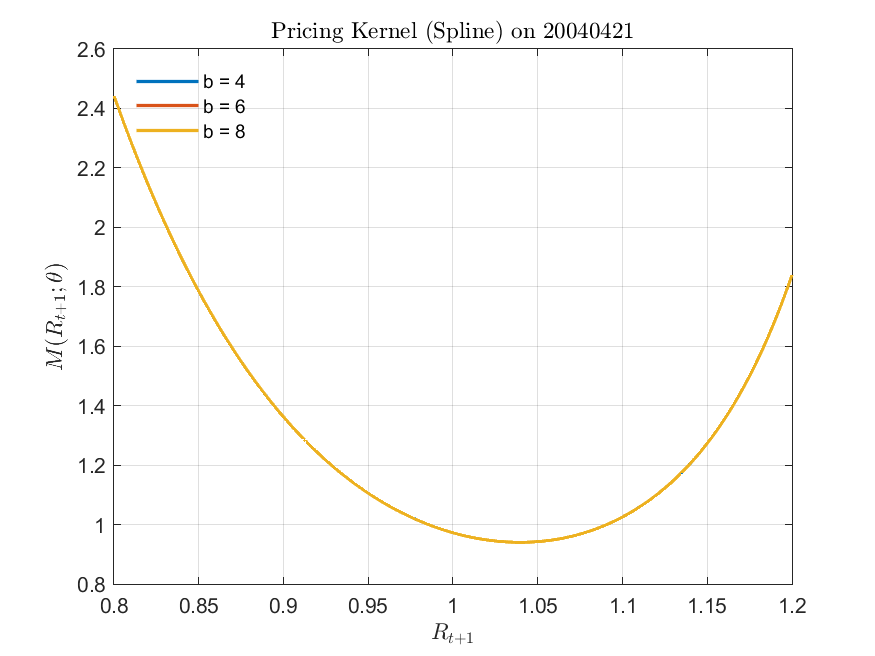
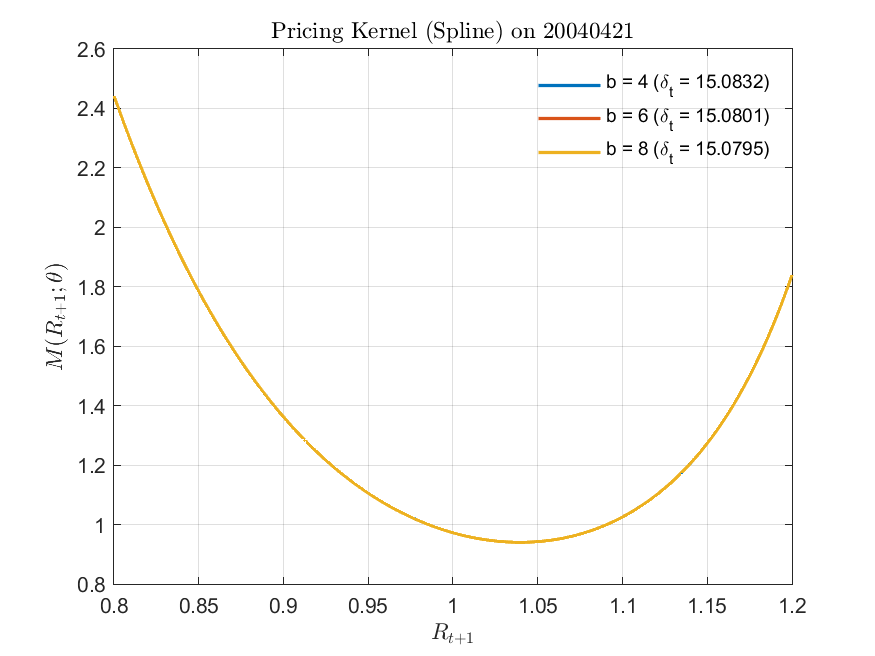
feat: add delta_t time-series computation and plotting

Changed region(s): [[0.6171, 0.0915, 0.8949, 0.1829], [0.1543, 0.122, 0.2777, 0.2134], [0.6171, 0.2134, 0.8949, 0.2439]]

diff --git a/03  Estimation - Cubic B-Spline/Main__Plot_pricing_kernel.m b/03  Estimation - Cubic B-Spline/Main__Plot_pricing_kernel.m
@@ -58,7 +58,7 @@ clear b_value var_name k theta_hat mat_files
 
 %% Function: compute_M_spline_on_date
 
-function M_plot = compute_M_spline_on_date(theta, b, R_axis_full, f_star_full, R_plot, Rf_t)
+function [M_plot, delta_t] = compute_M_spline_on_date(theta, b, R_axis_full, f_star_full, R_plot, Rf_t)
 
     degree = 3;                                                            % cubic B-spline
 
@@ -118,7 +118,8 @@ f_star_pl = f_star_full(idx_plot);
 Path_Code_03 = fullfile(Path_MainFolder, 'Code', '03  Estimation - Cubic B-Spline');
 addpath(Path_Code_03);
 
-M_stack = zeros(numel(R_plot), numel(b_list));
+M_stack     = zeros(numel(R_plot), numel(b_list));
+delta_stack = zeros(1            , numel(b_list));
 
 for j = 1:numel(b_list)
 
@@ -128,18 +129,20 @@ for j = 1:numel(b_list)
     theta_hat = eval(theta_varname);
     theta_hat = theta_hat(:);
 
-    M_tmp = compute_M_spline_on_date(theta_hat, b, R_axis_full, f_star_full, R_plot, Rf_t);
-    M_stack(:, j) = M_tmp(:);
+    [M_tmp, delta_t] = compute_M_spline_on_date(theta_hat, b, R_axis_full, f_star_full, R_plot, Rf_t);
+    M_stack(:, j)     = M_tmp(:);
+    delta_stack(1, j) = delta_t;
 
 end
 
 
-%% Plot
+%% Plot pricing kernel
 
 figure; 
 plot(R_plot, M_stack, 'LineWidth', 1.6); grid on;
-legend(arrayfun(@(x) sprintf('b = %d', x), b_list, 'UniformOutput', false), ...
-       'Location', 'northwest', 'Box', 'off');
+legend(arrayfun(@(x, d) sprintf('b = %d (\\delta_t = %.4f)', x, d), ...
+       b_list, delta_stack, 'UniformOutput', false), ...
+       'Location', 'northeast', 'Box', 'off');
 
 xlabel('$R_{t+1}$', 'Interpreter', 'latex');
 ylabel('$M(R_{t+1}; \theta)$', 'Interpreter', 'latex');
@@ -149,3 +152,90 @@ title(sprintf('Pricing Kernel (Spline) on %s', date_str), 'Interpreter', 'latex'
 out_png = sprintf('Pricing_Kernels_Spline_%s.png', date_str);
 saveas(gcf, fullfile(Path_Output, out_png));
 disp(['Saved figure: ', fullfile(Path_Output, out_png)]);
+
+
+%% Function: compute_delta_spline_on_date & build_delta_series
+
+% 1: compute_delta_spline_on_date
+function delta_t = compute_delta_spline_on_date(theta, b, R_axis_full, f_star_full, Rf_t)
+    degree = 3;
+
+    min_knot = min(R_axis_full);
+    max_knot = max(R_axis_full);
+    N_full   = numel(R_axis_full);
+
+    % B-spline basis function
+    B_full = zeros(b+1, N_full);
+    for i = 1:(b+1)
+        B_full(i, :) = Bspline_basis_function_value(degree, b, min_knot, max_knot, i, R_axis_full);
+    end
+    g_vec_full = theta(:).' * B_full;                                      % 1×N_full
+
+    % δ_t = -log(Rf_t) + log(∫ f*_t(R) * exp(-g(R)) dR)
+    integrand   = f_star_full .* exp(-g_vec_full);
+    integralVal = trapz(R_axis_full, integrand);
+    delta_t     = -log(Rf_t) + log(integralVal);
+end
+
+
+% 2: build_delta_series
+function [date_dt, delta_vec] = build_delta_series(theta, b, ...
+        Realized_Return, Risk_Free_Rate, Target_TTM, Smooth_AllR, Smooth_AllR_RND)
+
+    nT = height(Realized_Return);
+    date_dt   = NaT(nT, 1);
+    delta_vec = NaN(nT, 1);
+
+    for t = 1:nT
+        dnum       = Realized_Return.date(t);
+        date_str   = num2str(dnum);
+        date_dt(t) = datetime(num2str(dnum), 'InputFormat', 'yyyyMMdd');
+        
+        R_axis_full = Smooth_AllR.(date_str);
+        f_star_full = Smooth_AllR_RND.(date_str);
+
+        Rf_t_annual = Risk_Free_Rate.rate(t);
+        Rf_t        = exp(Rf_t_annual * (Target_TTM / 252));
+
+        delta_vec(t) = compute_delta_spline_on_date(theta, b, R_axis_full, f_star_full, Rf_t);
+    end
+end
+
+
+%% Plot delta_t
+
+T = height(Realized_Return);
+
+delta_table = table;
+date_dt_any = [];
+
+figure; hold on; grid on;
+
+for j = 1:numel(b_list)
+    b = b_list(j);
+
+    theta_varname = sprintf('theta_hat_%d', b);
+    theta_hat = eval(theta_varname);
+    theta_hat = theta_hat(:);
+
+    [date_dt, delta_vec] = build_delta_series(theta_hat, b, ...
+        Realized_Return, Risk_Free_Rate, Target_TTM, Smooth_AllR, Smooth_AllR_RND);
+
+    plot(date_dt, delta_vec, 'LineWidth', 1, 'DisplayName', sprintf('b = %d', b));
+
+    if isempty(date_dt_any)
+        date_dt_any = date_dt;
+        delta_table = table(date_dt_any, 'VariableNames', {'Date'});
+    end
+    delta_table.(sprintf('delta_b%d', b)) = delta_vec;
+end
+
+ylabel('${\delta_t}$', 'Interpreter', 'latex', 'Rotation', 0);
+title(sprintf('Time Series of $\\delta_t$'), 'Interpreter', 'latex');
+legend('Location', 'southwest', 'Box', 'off'); box on;
+
+% Output
+out_png2 = sprintf('Delta_t_Timeseries.png');
+saveas(gcf, fullfile(Path_Output, out_png2));
+disp(['Saved figure: ', fullfile(Path_Output, out_png2)]);
+
